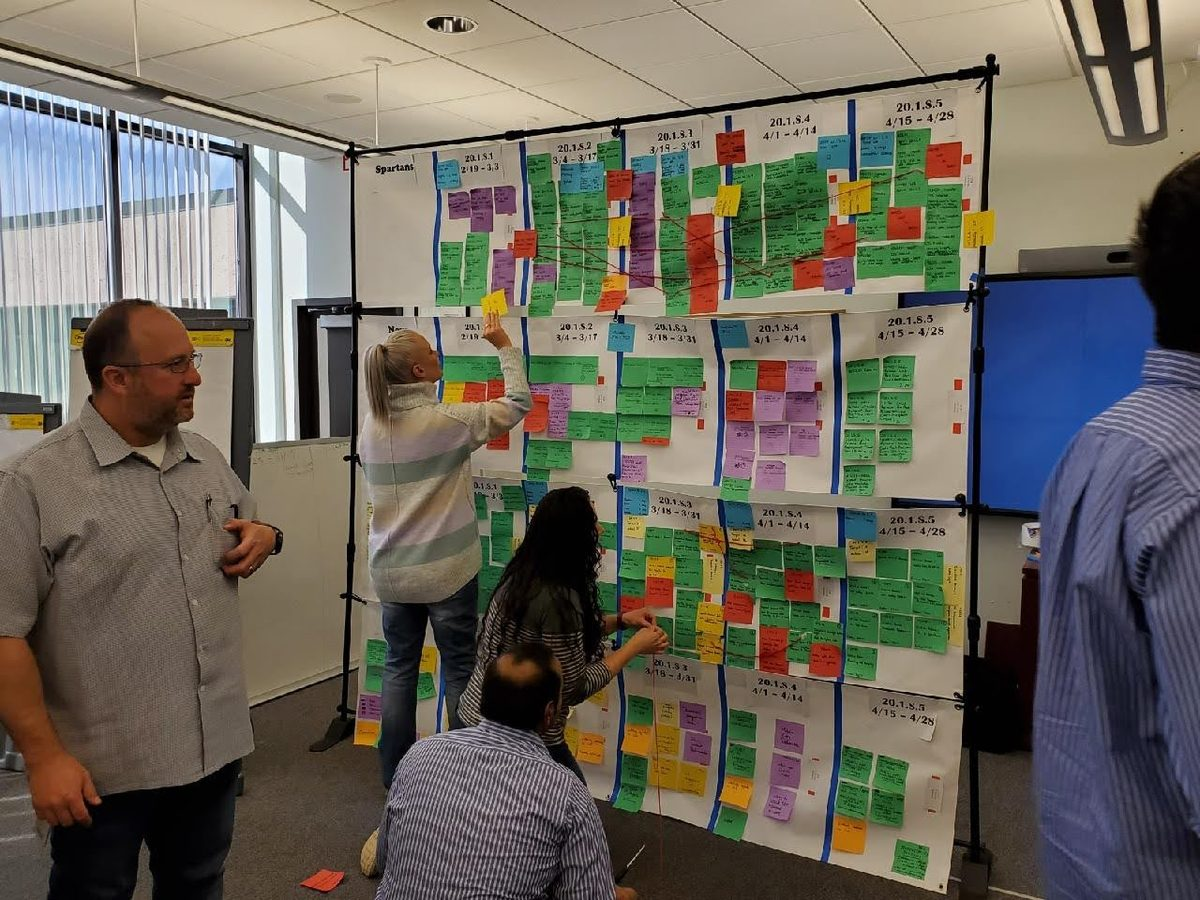
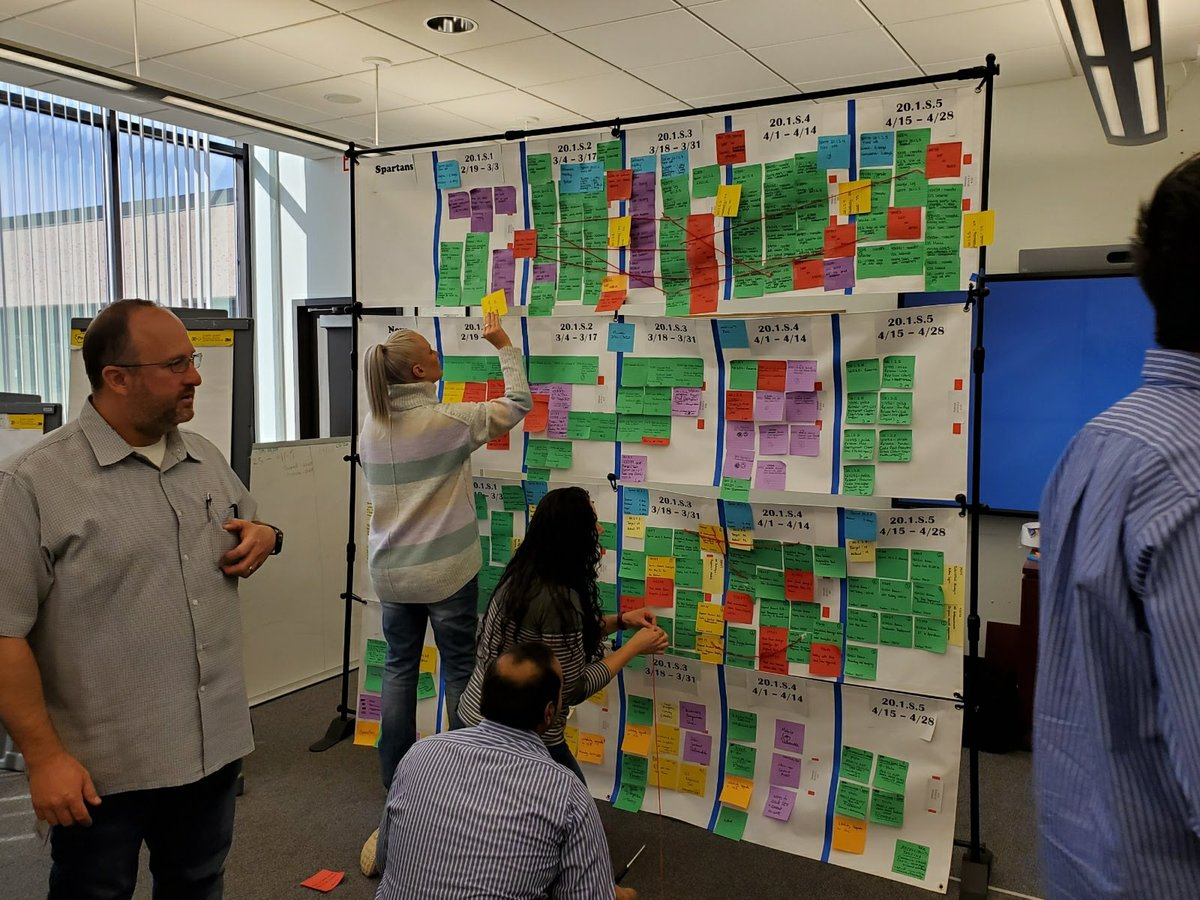
Complete previous commit: actual photo and preface file changes
The prior commit only captured a file rename; this includes the
actual updated image content, the build script changes, and the new
preface page/build script that commit's message described.

Claude-Session: https://claude.ai/code/session_018DGeY8Er1BZRL87BSZKax8

diff --git a/preface/index.html b/preface/index.html
@@ -1,0 +1,87 @@
+<!DOCTYPE html>
+<html lang="en">
+<head>
+<meta charset="UTF-8">
+<meta name="viewport" content="width=device-width, initial-scale=1.0">
+<title>Preface: The Monday Morning Quarterback — The Fatal Five</title>
+<meta name="description" content="Read the full Preface to The Fatal Five by Jeff Bourke — the Ensign-Bickford explosion, thirty-five years in EMS, and the question the whole book is built on.">
+<link rel="preconnect" href="https://fonts.googleapis.com">
+<link rel="preconnect" href="https://fonts.gstatic.com" crossorigin>
+<link href="https://fonts.googleapis.com/css2?family=Source+Serif+4:ital,wght@0,400;0,600;1,400&family=IBM+Plex+Mono:wght@400;500;600&display=swap" rel="stylesheet">
+<link rel="stylesheet" href="../assets/css/style.css">
+
+</head>
+<body>
+
+<header class="site">
+  <nav class="site">
+    <a class="brand" href="../index.html">THE FATAL <span>FIVE</span></a>
+    <ul class="navlinks" id="navlinks">
+      <li><a href="../index.html#framework">Framework</a></li>
+      <li><a href="../index.html#book">The Book</a></li>
+      <li><a href="../corpus/index.html">The 65 Cases</a></li>
+      <li><a href="../field-notes/index.html">Field Notes</a></li>
+      <li><a href="../index.html#speaking">Speaking</a></li>
+      <li><a href="../index.html#about">About</a></li>
+    </ul>
+    <button class="navtoggle" id="navtoggle" aria-label="Menu">&#9776;</button>
+  </nav>
+</header>
+<script>
+document.getElementById('navtoggle').addEventListener('click', function(){
+  document.getElementById('navlinks').classList.toggle('open');
+});
+</script>
+
+
+<main>
+  <div class="narrow">
+    <article class="post">
+      <div class="meta">Preface</div>
+      <h1>The Monday Morning Quarterback</h1>
+      <p class="dek">The opening pages of <em>The Fatal Five</em>, in full.</p>
+      <p>I was nine years old the first time a disaster reached out and touched me.</p>
+      <p>It was the summer of 1984, and I was walking across my grandparents' farm in Simsbury, Connecticut &mdash; the short stretch of ground between the farm stand and the house, heading in for a late lunch. I can still stand in that exact spot today and see it. First the sound: the loudest thing I had ever heard, a concussion more than a noise. Then the ground shook under my feet. And then, rising over the horizon where I could not see the factory or the bunkers but knew they were there, a column of black smoke climbing into the sky.</p>
+      <p>It was Ensign-Bickford, the explosives manufacturer that had been part of my town longer than anyone alive. Three men had been mixing chemicals in a hundred-gallon vat when it detonated. The blast killed all three, demolished the building, shattered windows half a mile away, and pushed a cloud of smoke and fumes over the town that drove two hundred people from their homes. It was felt a mile away. I know these facts now because I have read the record as an adult. What I knew then was the sound, the shaking, the smoke &mdash; and, for hours afterward, the sirens. So many sirens.</p>
+      <p>I should tell you the truth about what hooked a nine-year-old that day, because the truth is the reason this book exists. It was not the size of the blast, or the spectacle, or even the whispered rumors about the men who died. What caught me and never let go was a set of questions I could not stop asking. <em>Someone called for help &mdash; what did help do?</em> I heard all those sirens; where were they going, and what happened when they got there? I saw it on the news and I had felt it under my own feet, and that made it real in a way nothing in a book ever had been. I was genuinely, relentlessly curious: what did they <em>do</em>? How did they respond? How did they fix it?</p>
+      <p>I did not have the words for it then, but I had already found my life's two questions &mdash; the ones this book is built on. When everything breaks, what do the people who run toward it actually do? And why did it break in the first place?</p>
+      <p>I have spent the forty years since chasing the answers, walking toward the sirens instead of away. For thirty-five of them I have been an emergency medical responder &mdash; an EMT, a training officer, trained at the Department of Homeland Security's disaster-preparedness school to work chemical and mass-casualty scenes. I became the help I wondered about at nine. And along the way, the second question grew into something as urgent as the first: not just <em>how do we respond?</em> but <em>why did this happen?</em> Why the vat exploded. Why the warnings that almost always exist were almost always missed. Why competent, careful people end up standing in the smoke of a disaster that, viewed afterward, looks like it should have been obvious.</p>
+      <p>That question is the reason I can tell you this next part plainly.</p>
+      <p>It is always easier to analyze decisions with the benefit of hindsight. Hindsight offers a clarity that those in the midst of crisis simply do not have &mdash; a perspective unavailable to people facing impossible choices in real time, often with limited information and the highest of stakes. In the wake of tragedy it is natural to ask what might have been done differently. But the honest answer requires humility, because the people who were there did not have the answer key we are reading from now.</p>
+      <p>The men and women at the center of these events &mdash; the engineers, the pilots, the operators, the managers, the first responders &mdash; were not villains. They were people acting with courage, instinct, and determination, using the best knowledge available to them under immense pressure and uncertainty. Their actions were not guided by the luxury of reflection but by the urgent need to respond in the moment. They stood in the face of adversity and did their utmost to protect and save others, and that is how this book treats them.</p>
+      <p>I learned that respect the hard way, in the field. At the Department of Homeland Security's Center for Domestic Preparedness, my final exam was a simulated phosgene attack on a courthouse: suit up, make entry, bring the victims out, decontaminate, treat, transport. Nothing about that exercise tested whether I knew the chemistry of phosgene. It tested whether the process would hold when everything was designed to break it. I have spent the years since watching that same test administered &mdash; to rig crews, flight crews, condo boards, and software teams &mdash; by events that were not simulations. That experience shapes every page of this book: I know the difference between what the record shows and what the moment felt like, and I will not pretend the people in these pages had access to the clarity we now enjoy.</p>
+      <p>The same principle extends to the readers of this book. It applies to anyone who has ever been handed a commitment they were not sure they could honestly keep, and been expected to deliver it anyway. The Scrum Master navigating organizational dysfunction. The release train engineer holding a train together through a doomed increment. The product owner caught between irreconcilable demands, the project lead, the engineer, the nurse, the site supervisor, the team member working under impossible pressure to deliver despite every systemic impediment in the way. You are the people closest to the work, which means you are almost always the first to see the smoke. You, too, are making decisions without the benefit of hindsight. You, too, deserve to be judged by what you could know at the time.</p>
+      <p>And if you lead those people &mdash; if you set the commitments, fund the work, and answer for what happens &mdash; this book is written for you in a different way. You may be too far from the ground to see the early signs yourself; that is not a failing, it is a fact of altitude. But the people beneath you can see them, and in nearly every disaster in these pages, someone did. The warning existed. It was on a desk, in an email, in a meeting, in a voice that went quiet when no one above listened. The single most powerful thing a leader can do to prevent the next catastrophe is almost embarrassingly simple: listen when the people closest to the work start sounding an alarm, and make it safe for them to sound it loudly. This book will show you, again and again, what it costs when they don't.</p>
+      <p>This book deconstructs moments of catastrophic failure, not to place blame, but to find the patterns that can prevent future tragedies. We analyze these events to prevent others from experiencing the same pain &mdash; to steal these hard-won lessons before we are forced to learn them the same way, and to carry the responsibility of applying them before the next crisis strikes. To learn from history is not to judge it unfairly. It is to honor those who came before us by ensuring their experiences contribute to a safer, more resilient future for us all.</p>
+      <p>The courage to act in the moment deserves our respect. The wisdom to learn from experience demands our commitment. It started for me with smoke on a horizon in Connecticut, and a boy who needed to know what the people who ran toward it would do. I have spent a life finding out. It has never stopped mattering.</p>
+      <div class="backlink">
+        <a class="link" href="../index.html#book">&larr; Back to the book</a>
+        &nbsp;&middot;&nbsp;
+        <a class="link" href="../index.html#contact">Get launch updates &rarr;</a>
+      </div>
+    </article>
+  </div>
+</main>
+
+<footer class="site">
+  <div class="wrap">
+    <div class="fbrand">THE FATAL FIVE &middot; Jeff Bourke</div>
+    <div class="ftagline">The warnings are almost always there.</div>
+    <ul class="flinks">
+      <li><a href="../index.html#framework">Framework</a></li>
+      <li><a href="../index.html#book">The Book</a></li>
+      <li><a href="../corpus/index.html">The 65 Cases</a></li>
+      <li><a href="../field-notes/index.html">Field Notes</a></li>
+      <li><a href="../index.html#speaking">Speaking</a></li>
+      <li><a href="../index.html#about">About</a></li>
+      <li><a href="../index.html#contact">Contact</a></li>
+    </ul>
+    <div class="fbottom">
+      <span>&copy; 2026 Jeff Bourke. All rights reserved.</span>
+      <span>LinkedIn &middot; Email</span>
+    </div>
+  </div>
+</footer>
+</body>
+</html>
+

diff --git a/index.html b/index.html
@@ -147,6 +147,7 @@ document.getElementById('navtoggle').addEventListener('click', function(){
             <li>The Fatal Five assessment and countermeasures you can run in your organization Monday</li>
           </ul>
           <a class="btn" href="#contact">Get launch updates</a>
+          <span style="margin-left:14px;"><a class="link" href="preface/index.html">Read the preface &rarr;</a></span>
           <div class="status-line">Publishing 2026 &middot; Self-published, professionally edited</div>
           <div class="pullquote">&ldquo;Heroism, examined closely, is what preparation looks like on its worst day.&rdquo;</div>
         </div>
@@ -159,7 +160,7 @@ document.getElementById('navtoggle').addEventListener('click', function(){
       <div class="about">
         <div class="about-photos">
           <img src="assets/images/jeff-headshot.jpg" alt="Jeff Bourke">
-          <img src="assets/images/pi-planning-thinking.jpg" alt="Jeff Bourke at a PI Planning session">
+          <img src="assets/images/ems-comfort-patient.jpg" alt="Jeff Bourke, as a young EMT, comforting a young patient in the back of an ambulance">
         </div>
         <div>
           <div class="eyebrow">About</div>

diff --git a/build/build_preface.py b/build/build_preface.py
@@ -1,0 +1,54 @@
+import sys
+sys.path.insert(0, '.')
+from header_footer import head, nav, footer
+
+paragraphs = [
+    "I was nine years old the first time a disaster reached out and touched me.",
+    "It was the summer of 1984, and I was walking across my grandparents' farm in Simsbury, Connecticut &mdash; the short stretch of ground between the farm stand and the house, heading in for a late lunch. I can still stand in that exact spot today and see it. First the sound: the loudest thing I had ever heard, a concussion more than a noise. Then the ground shook under my feet. And then, rising over the horizon where I could not see the factory or the bunkers but knew they were there, a column of black smoke climbing into the sky.",
+    "It was Ensign-Bickford, the explosives manufacturer that had been part of my town longer than anyone alive. Three men had been mixing chemicals in a hundred-gallon vat when it detonated. The blast killed all three, demolished the building, shattered windows half a mile away, and pushed a cloud of smoke and fumes over the town that drove two hundred people from their homes. It was felt a mile away. I know these facts now because I have read the record as an adult. What I knew then was the sound, the shaking, the smoke &mdash; and, for hours afterward, the sirens. So many sirens.",
+    "I should tell you the truth about what hooked a nine-year-old that day, because the truth is the reason this book exists. It was not the size of the blast, or the spectacle, or even the whispered rumors about the men who died. What caught me and never let go was a set of questions I could not stop asking. <em>Someone called for help &mdash; what did help do?</em> I heard all those sirens; where were they going, and what happened when they got there? I saw it on the news and I had felt it under my own feet, and that made it real in a way nothing in a book ever had been. I was genuinely, relentlessly curious: what did they <em>do</em>? How did they respond? How did they fix it?",
+    "I did not have the words for it then, but I had already found my life's two questions &mdash; the ones this book is built on. When everything breaks, what do the people who run toward it actually do? And why did it break in the first place?",
+    "I have spent the forty years since chasing the answers, walking toward the sirens instead of away. For thirty-five of them I have been an emergency medical responder &mdash; an EMT, a training officer, trained at the Department of Homeland Security's disaster-preparedness school to work chemical and mass-casualty scenes. I became the help I wondered about at nine. And along the way, the second question grew into something as urgent as the first: not just <em>how do we respond?</em> but <em>why did this happen?</em> Why the vat exploded. Why the warnings that almost always exist were almost always missed. Why competent, careful people end up standing in the smoke of a disaster that, viewed afterward, looks like it should have been obvious.",
+    "That question is the reason I can tell you this next part plainly.",
+    "It is always easier to analyze decisions with the benefit of hindsight. Hindsight offers a clarity that those in the midst of crisis simply do not have &mdash; a perspective unavailable to people facing impossible choices in real time, often with limited information and the highest of stakes. In the wake of tragedy it is natural to ask what might have been done differently. But the honest answer requires humility, because the people who were there did not have the answer key we are reading from now.",
+    "The men and women at the center of these events &mdash; the engineers, the pilots, the operators, the managers, the first responders &mdash; were not villains. They were people acting with courage, instinct, and determination, using the best knowledge available to them under immense pressure and uncertainty. Their actions were not guided by the luxury of reflection but by the urgent need to respond in the moment. They stood in the face of adversity and did their utmost to protect and save others, and that is how this book treats them.",
+    "I learned that respect the hard way, in the field. At the Department of Homeland Security's Center for Domestic Preparedness, my final exam was a simulated phosgene attack on a courthouse: suit up, make entry, bring the victims out, decontaminate, treat, transport. Nothing about that exercise tested whether I knew the chemistry of phosgene. It tested whether the process would hold when everything was designed to break it. I have spent the years since watching that same test administered &mdash; to rig crews, flight crews, condo boards, and software teams &mdash; by events that were not simulations. That experience shapes every page of this book: I know the difference between what the record shows and what the moment felt like, and I will not pretend the people in these pages had access to the clarity we now enjoy.",
+    "The same principle extends to the readers of this book. It applies to anyone who has ever been handed a commitment they were not sure they could honestly keep, and been expected to deliver it anyway. The Scrum Master navigating organizational dysfunction. The release train engineer holding a train together through a doomed increment. The product owner caught between irreconcilable demands, the project lead, the engineer, the nurse, the site supervisor, the team member working under impossible pressure to deliver despite every systemic impediment in the way. You are the people closest to the work, which means you are almost always the first to see the smoke. You, too, are making decisions without the benefit of hindsight. You, too, deserve to be judged by what you could know at the time.",
+    "And if you lead those people &mdash; if you set the commitments, fund the work, and answer for what happens &mdash; this book is written for you in a different way. You may be too far from the ground to see the early signs yourself; that is not a failing, it is a fact of altitude. But the people beneath you can see them, and in nearly every disaster in these pages, someone did. The warning existed. It was on a desk, in an email, in a meeting, in a voice that went quiet when no one above listened. The single most powerful thing a leader can do to prevent the next catastrophe is almost embarrassingly simple: listen when the people closest to the work start sounding an alarm, and make it safe for them to sound it loudly. This book will show you, again and again, what it costs when they don't.",
+    "This book deconstructs moments of catastrophic failure, not to place blame, but to find the patterns that can prevent future tragedies. We analyze these events to prevent others from experiencing the same pain &mdash; to steal these hard-won lessons before we are forced to learn them the same way, and to carry the responsibility of applying them before the next crisis strikes. To learn from history is not to judge it unfairly. It is to honor those who came before us by ensuring their experiences contribute to a safer, more resilient future for us all.",
+    "The courage to act in the moment deserves our respect. The wisdom to learn from experience demands our commitment. It started for me with smoke on a horizon in Connecticut, and a boy who needed to know what the people who ran toward it would do. I have spent a life finding out. It has never stopped mattering.",
+]
+
+para_html = "\n".join(f"      <p>{p}</p>" for p in paragraphs)
+
+body = f"""
+{nav("../")}
+
+<main>
+  <div class="narrow">
+    <article class="post">
+      <div class="meta">Preface</div>
+      <h1>The Monday Morning Quarterback</h1>
+      <p class="dek">The opening pages of <em>The Fatal Five</em>, in full.</p>
+{para_html}
+      <div class="backlink">
+        <a class="link" href="../index.html#book">&larr; Back to the book</a>
+        &nbsp;&middot;&nbsp;
+        <a class="link" href="../index.html#contact">Get launch updates &rarr;</a>
+      </div>
+    </article>
+  </div>
+</main>
+
+{footer("../")}
+"""
+
+html_out = head(
+    "Preface: The Monday Morning Quarterback — The Fatal Five",
+    "Read the full Preface to The Fatal Five by Jeff Bourke — the Ensign-Bickford explosion, thirty-five years in EMS, and the question the whole book is built on.",
+    root="../",
+) + body
+
+with open('/home/claude/fatalfive-repo/preface/index.html', 'w') as f:
+    f.write(html_out)
+print("wrote preface/index.html", len(html_out), "bytes")

diff --git a/build/build_index.py b/build/build_index.py
@@ -136,6 +136,7 @@ body = f"""
             <li>The Fatal Five assessment and countermeasures you can run in your organization Monday</li>
           </ul>
           <a class="btn" href="#contact">Get launch updates</a>
+          <span style="margin-left:14px;"><a class="link" href="preface/index.html">Read the preface &rarr;</a></span>
           <div class="status-line">Publishing 2026 &middot; Self-published, professionally edited</div>
           <div class="pullquote">&ldquo;Heroism, examined closely, is what preparation looks like on its worst day.&rdquo;</div>
         </div>
@@ -148,7 +149,7 @@ body = f"""
       <div class="about">
         <div class="about-photos">
           <img src="assets/images/jeff-headshot.jpg" alt="Jeff Bourke">
-          <img src="assets/images/pi-planning-thinking.jpg" alt="Jeff Bourke at a PI Planning session">
+          <img src="assets/images/ems-comfort-patient.jpg" alt="Jeff Bourke, as a young EMT, comforting a young patient in the back of an ambulance">
         </div>
         <div>
           <div class="eyebrow">About</div>
